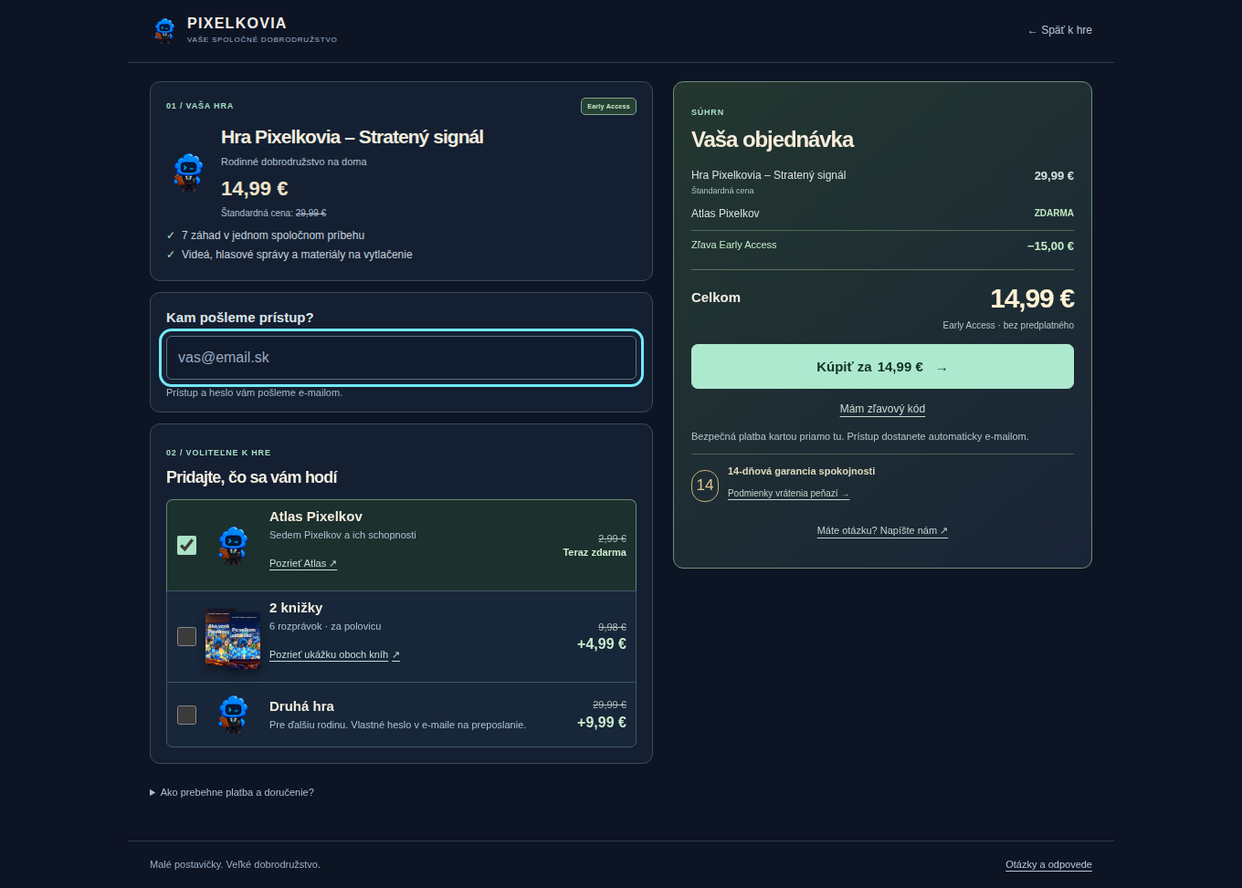
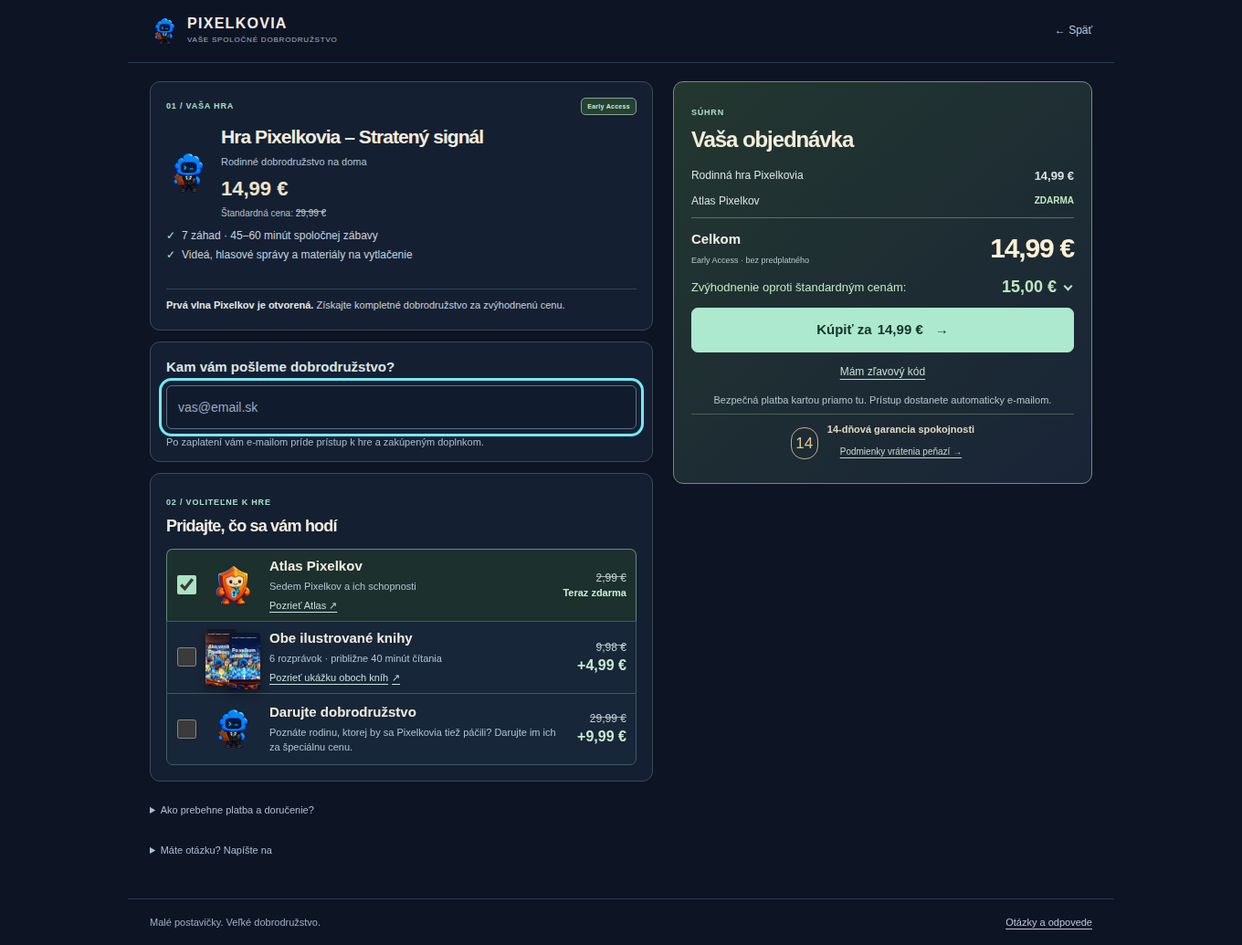
Compact checkout with Slovak card fields and device wallets

diff --git a/checkout.css b/checkout.css
@@ -28,7 +28,7 @@
 .checkout-input:-webkit-autofill,.checkout-input:-webkit-autofill:hover,.checkout-input:-webkit-autofill:focus{-webkit-text-fill-color:#e7eef6;caret-color:#e7eef6;-webkit-box-shadow:0 0 0 1000px #101b2d inset;box-shadow:0 0 0 1000px #101b2d inset}
 .details-panel .field-note{font-size:11px;line-height:1.5;margin:6px 0 0;color:#a9bacb}
 .checkout-addons{display:grid;grid-auto-rows:1fr;gap:0}
-.checkout-addon{display:flex;border:1px solid #405869;border-bottom:0;background:#172638;padding:8px 10px;min-width:0}
+.checkout-addon{display:flex;border:1px solid #405869;border-bottom:0;background:#172638;padding:6px 10px;min-width:0}
 .checkout-addon:first-child{border-radius:7px 7px 0 0}
 .checkout-addon:last-child{border-bottom:1px solid #405869;border-radius:0 0 7px 7px}
 .checkout-addon:has(input:checked){background:#1c302d;border-color:#658a76}
@@ -36,10 +36,11 @@
 .addon-check{display:grid;place-items:center;width:44px;height:44px;margin-left:-11px;cursor:pointer}
 .addon-main input{width:21px;height:21px;margin:0;accent-color:#ace3c4;cursor:pointer}
 .addon-main>img{width:48px;height:54px;object-fit:contain;justify-self:center}
-.addon-copy{min-width:0;align-self:start}
+.addon-copy{display:flex;flex-direction:column;align-items:flex-start;min-width:0;align-self:center}
 .addon-copy>label{display:block;cursor:pointer;font:650 15px/1.35 Manrope,sans-serif;color:#f2ebdc}
-.addon-copy>small{display:block;font-size:11px;line-height:1.45;color:#adc2d2;margin-top:3px}
-.addon-copy .book-preview-button,.addon-copy .book-sample-link{display:inline-flex;align-items:center;min-height:44px;padding:5px 0;margin:0;border:0;background:transparent;color:#c8dfdd;font:11px/1.4 'DM Sans',sans-serif;text-decoration:underline;text-underline-offset:3px;gap:4px}
+.addon-copy>small{display:block;font-size:11px;line-height:1.45;color:#adc2d2;margin-top:5px}
+.addon-copy .book-preview-button,.addon-copy .book-sample-link{position:relative;display:inline-flex;align-items:flex-start;min-height:0;padding:5px 0 0;margin:0;border:0;background:transparent;color:#c8dfdd;font:11px/1.4 'DM Sans',sans-serif;text-decoration:underline;text-underline-offset:3px;gap:4px}
+.addon-copy .book-preview-button::after,.addon-copy .book-sample-link::after{content:'';position:absolute;inset:-10px 0;min-height:44px}
 .addon-price{text-align:right;max-width:74px}
 .addon-price>strong{display:block;color:#c9ebce;font-size:16px;line-height:1.35;white-space:nowrap}
 .atlas-addon .addon-price>strong{font-size:11px;white-space:normal}
@@ -84,11 +85,11 @@
 .summary-total>span{font-size:15px;font-weight:600}
 .summary-total>strong{font:650 30px/1.3 Manrope,sans-serif;letter-spacing:-.04em;color:#fff1d3;white-space:nowrap}
 .summary-price-note{display:block;color:#b6c6c5;font-size:9px;font-weight:400;margin:3px 0 0}
-.checkout-buy{width:100%;background:#ace9cf;color:#123228;border:1px solid #b3e9ce;border-radius:7px;min-height:49px;padding:11px 13px;display:flex;gap:6px;justify-content:center;align-items:center;font-weight:750;font-size:15px}
-.checkout-buy:disabled,.mobile-checkout-bar button:disabled{opacity:.58;cursor:not-allowed}
+.checkout-buy,.stripe-pay{width:100%;background:#ace9cf;color:#123228;border:1px solid #b3e9ce;border-radius:7px;min-height:49px;padding:11px 13px;display:flex;gap:6px;justify-content:center;align-items:center;font-weight:750;font-size:15px}
+.checkout-buy:disabled,.stripe-pay:disabled,.mobile-checkout-bar button:disabled{opacity:.58;cursor:not-allowed}
 .checkout-buy>span:last-child{margin-left:7px}
 .checkout-voucher-link,.voucher-remove{display:block;min-height:44px;margin:0 auto;padding:10px 12px;border:0;background:transparent;color:#c4ded3;font-size:12px;text-decoration:underline;text-underline-offset:4px}
-.payment-note{font-size:11px;line-height:1.5;color:#b4c5c9;margin:0 0 6px}
+.payment-note{font-size:11px;line-height:1.5;color:#b4c5c9;margin:0 0 6px;text-align:center}
 .checkout-guarantee{display:flex;align-items:center;justify-content:center;gap:10px;padding-top:8px;border-top:1px solid #496153;text-align:center}
 .checkout-guarantee>span{border:1px solid #c4af7f;border-radius:14px;color:#dec68f;flex:0 0 30px;width:30px;height:35px;display:grid;place-items:center;font-size:17px}
 .checkout-guarantee>p{font-size:10px;line-height:1.5;color:#b7c8c2;margin:0}
@@ -102,16 +103,22 @@
 .checkout-footer>a{color:#b6c7d9;text-underline-offset:3px}
 .visually-hidden{position:absolute;width:1px;height:1px;padding:0;overflow:hidden;clip-path:inset(50%);white-space:nowrap}
 .mobile-checkout-bar{display:none}
-.embedded-payment{max-width:640px;margin:0 auto 18px}
-.embedded-payment h2{font-size:22px;margin:0 0 14px}
-.payment-order-summary{padding-bottom:14px;margin-bottom:18px;border-bottom:1px solid var(--checkout-line)}
-.payment-order-summary>p{font-size:13px;line-height:1.6;color:#b2c2d3;margin:0 0 8px;overflow-wrap:anywhere}
-.payment-order-summary>div{display:flex;justify-content:space-between;gap:14px;align-items:center;color:#dce4e7;font-size:14px}
+.embedded-payment{max-width:520px;margin:0 auto 12px;padding:16px}
+.embedded-payment h2{font-size:20px;margin:0 0 12px}
+.payment-order-summary{padding-bottom:8px;margin-bottom:12px;border-bottom:1px solid var(--checkout-line)}
+.payment-order-summary summary{display:flex;align-items:center;justify-content:space-between;gap:12px;min-height:40px;cursor:pointer;list-style:none;color:#b2c2d3;font-size:12px}
+.payment-order-summary summary::-webkit-details-marker{display:none}
+.payment-order-summary summary>span::after{content:'⌄';margin-left:6px}
+.payment-order-summary details[open] summary>span::after{content:'⌃'}
+.payment-order-summary p{font-size:12px;line-height:1.5;color:#b2c2d3;margin:8px 0 0;overflow-wrap:anywhere}
 .payment-order-summary strong{font:700 24px/1.3 Manrope,sans-serif;color:#fff1d3;white-space:nowrap}
+#express-checkout-slot{min-height:0;margin-bottom:8px}
+.wallet-separator{text-align:center;font-size:11px;color:#b2c2d3;margin:6px 0 10px}
+.stripe-pay{margin-top:14px}
 #payment-slot{max-width:560px;margin:0 auto;overflow:hidden;border-radius:8px;background:#142032}
 .embedded-payment>#payment-status{max-width:560px;margin:16px auto 0;color:#b2c2d3;font-size:14px;line-height:1.65}
 .embedded-payment>#payment-status:empty{display:none}
-.embedded-payment>#change-order{display:flex;margin:20px auto 0}
+.embedded-payment>#change-order{display:flex;min-height:44px;margin:8px auto 0;padding:7px 14px;font-size:12px}
 .field-note{font-size:12px;line-height:1.6;margin:10px 0 0;color:#a9bacb}
 .standalone-book{display:grid;grid-template-columns:72px 1fr;gap:18px;align-items:center;margin:14px 0}
 .standalone-book h2{margin:0 0 8px}
@@ -135,8 +142,8 @@
 .voucher-error{font-size:13px;line-height:1.7;color:#ffd1bc;margin:12px 0 0}
 .voucher-dialog [aria-invalid="true"]{border-color:#ffb89b}
 @media(max-width:900px){.checkout-layout{gap:16px}.checkout-panel,.summary-inner{padding:14px}.addon-main{grid-template-columns:22px 52px minmax(0,1fr) auto;gap:8px}.addon-copy>label{font-size:14px}.book-pair{gap:2px}.checkout-addons .offer-book-cover{width:25px;height:36px;flex-basis:25px}.book-bundle-option .book-pair .offer-book-cover{width:30px;height:60px;flex-basis:30px}}
-@media(max-width:700px){.checkout-header{padding:8px 14px;gap:10px}.checkout-brand{font-size:14px;gap:7px}.checkout-brand small{font-size:6px}.checkout-header>a:last-child{font-size:11px}.checkout-main{padding:12px 12px 20px}.checkout-layout{display:flex;flex-direction:column;gap:0}.checkout-content,.checkout-summary{width:100%;min-width:0}.checkout-panel{padding:13px;margin-bottom:10px}.base-product-heading h2{font-size:20px}.base-product-heading{margin:7px 0}.base-product li{font-size:11px}.base-product-heading p{display:none}.details-panel{padding-block:10px}.details-panel>.checkout-step{display:none}.details-panel .field-label{font-size:14px;margin:0 0 6px}.checkout-summary{position:static;margin-bottom:8px}.summary-inner{padding:16px}.summary-inner>h2{font-size:22px;margin-bottom:12px}.checkout-footer{padding:14px 12px 100px;font-size:10px;line-height:1.5}.addons-panel>h2{font-size:16px;margin:3px 0 10px}.addon-price>strong{font-size:15px}.addon-main{grid-template-columns:21px 56px minmax(0,1fr) auto;gap:8px}.checkout-addon{padding:7px 8px}.addon-copy>small{font-size:10px}.addon-copy .book-preview-button,.addon-copy .book-sample-link{font-size:10px}.addon-price{max-width:62px}.book-pair{gap:3px}.checkout-addons .offer-book-cover{width:26px;height:38px;flex-basis:26px}.mobile-checkout-bar{position:fixed;bottom:0;left:0;right:0;z-index:20;display:flex;align-items:center;justify-content:space-between;gap:16px;padding:10px 14px calc(10px + env(safe-area-inset-bottom));background:#142332f5;border-top:1px solid #5f8270;box-shadow:0 -8px 24px #050b1633;backdrop-filter:blur(12px)}.mobile-checkout-bar small{display:block;font-size:10px;color:#b9cbcc}.mobile-checkout-bar strong{display:block;font:700 22px/1.3 Manrope,sans-serif;color:#fff1d3;white-space:nowrap}.mobile-checkout-bar button{display:flex;align-items:center;justify-content:center;gap:14px;min-height:48px;padding:10px 16px;border:1px solid #b3e9ce;border-radius:7px;background:#ace9cf;color:#123228;font-size:13px;font-weight:750}.voucher-dialog{padding:22px 20px}.voucher-heading h2{font-size:24px}}
-@media(max-width:360px){.checkout-main{padding-inline:10px}.checkout-panel{padding:12px}.base-product-heading h2{font-size:19px}.base-product-heading>img{width:42px;height:42px;flex-basis:42px}.base-product-heading{gap:9px}.planned-price{font-size:9px}.addon-main{grid-template-columns:21px 48px minmax(0,1fr) auto;gap:6px}.checkout-addon{padding:7px}.addon-copy>label{font-size:13px}.addon-price>strong{font-size:14px}.addon-main>img{width:40px}.book-pair{gap:2px}.checkout-addons .offer-book-cover{width:23px;height:33px;flex-basis:23px}.addon-price{max-width:58px}.mobile-checkout-bar{padding-inline:12px;gap:10px}.mobile-checkout-bar button{padding-inline:12px;gap:8px;font-size:12px}}
+@media(max-width:700px){.checkout-header{padding:8px 14px;gap:10px}.checkout-brand{font-size:14px;gap:7px}.checkout-brand small{font-size:6px}.checkout-header>a:last-child{font-size:11px}.checkout-main{padding:12px 12px 20px}.checkout-layout{display:flex;flex-direction:column;gap:0}.checkout-content,.checkout-summary{width:100%;min-width:0}.checkout-panel{padding:13px;margin-bottom:10px}.base-product-heading h2{font-size:20px}.base-product-heading{margin:7px 0}.base-product li{font-size:11px}.base-product-heading p{display:none}.details-panel{padding-block:10px}.details-panel>.checkout-step{display:none}.details-panel .field-label{font-size:14px;margin:0 0 6px}.checkout-summary{position:static;margin-bottom:8px}.summary-inner{padding:16px}.summary-inner>h2{font-size:22px;margin-bottom:12px}.checkout-footer{padding:14px 12px 100px;font-size:10px;line-height:1.5}.addons-panel>h2{font-size:16px;margin:3px 0 10px}.addon-price>strong{font-size:15px}.addon-main{grid-template-columns:21px 56px minmax(0,1fr) auto;gap:8px}.checkout-addon{padding:6px 8px}.addon-copy>small{font-size:10px}.addon-copy .book-preview-button,.addon-copy .book-sample-link{font-size:10px}.addon-price{max-width:62px}.book-pair{gap:3px}.checkout-addons .offer-book-cover{width:26px;height:38px;flex-basis:26px}.mobile-checkout-bar{position:fixed;bottom:0;left:0;right:0;z-index:20;display:flex;align-items:center;justify-content:space-between;gap:16px;padding:10px 14px calc(10px + env(safe-area-inset-bottom));background:#142332f5;border-top:1px solid #5f8270;box-shadow:0 -8px 24px #050b1633;backdrop-filter:blur(12px)}.mobile-checkout-bar small{display:block;font-size:10px;color:#b9cbcc}.mobile-checkout-bar strong{display:block;font:700 22px/1.3 Manrope,sans-serif;color:#fff1d3;white-space:nowrap}.mobile-checkout-bar button{display:flex;align-items:center;justify-content:center;gap:14px;min-height:48px;padding:10px 16px;border:1px solid #b3e9ce;border-radius:7px;background:#ace9cf;color:#123228;font-size:13px;font-weight:750}.voucher-dialog{padding:22px 20px}.voucher-heading h2{font-size:24px}}
+@media(max-width:360px){.checkout-main{padding-inline:10px}.checkout-panel{padding:12px}.base-product-heading h2{font-size:19px}.base-product-heading>img{width:42px;height:42px;flex-basis:42px}.base-product-heading{gap:9px}.planned-price{font-size:9px}.addon-main{grid-template-columns:21px 48px minmax(0,1fr) auto;gap:6px}.checkout-addon{padding:6px 7px}.addon-copy>label{font-size:13px}.addon-price>strong{font-size:14px}.addon-main>img{width:40px}.book-pair{gap:2px}.checkout-addons .offer-book-cover{width:23px;height:33px;flex-basis:23px}.addon-price{max-width:58px}.mobile-checkout-bar{padding-inline:12px;gap:10px}.mobile-checkout-bar button{padding-inline:12px;gap:8px;font-size:12px}}
 
 @media(min-width:361px) and (max-width:700px){.book-bundle-option .book-pair .offer-book-cover{width:32px;height:62px;flex-basis:32px}}
 @media(max-width:360px){.book-bundle-option .book-pair .offer-book-cover{width:28px;height:58px;flex-basis:28px}}

diff --git a/checkout.js b/checkout.js
@@ -120,46 +120,75 @@
     document.querySelector('#change-order').disabled=false;
   }
   async function mountPayment(session){
-    const checkout=Stripe(configuration.publishableKey).initCheckoutFormSdk({
+    const checkout=Stripe(configuration.publishableKey,{locale:'sk'}).initCheckoutElementsSdk({
       clientSecret:session.clientSecret,
-      appearance:{
-        theme:'night',inputs:'spaced',labels:'above',
-        variables:{colorPrimary:'#ace9cf',colorBackground:'#101b2d',colorText:'#f1ede5',colorTextSecondary:'#b2c2d3',colorTextPlaceholder:'#9aaac0',colorDanger:'#ffb89b',accessibleColorOnColorPrimary:'#123228',fontFamily:'Inter, system-ui, sans-serif',fontSizeBase:'16px',borderRadius:'7px',spacingUnit:'4px'}
-      }
+      adaptivePricing:{allowed:false},
+      defaultValues:{billingAddress:{address:{country:'SK'}}},
+      elementsOptions:{appearance:{
+        theme:'night',inputs:'condensed',labels:'above',
+        variables:{colorPrimary:'#ace9cf',colorBackground:'#101b2d',colorText:'#f1ede5',colorTextSecondary:'#b2c2d3',colorTextPlaceholder:'#9aaac0',colorDanger:'#ffb89b',accessibleColorOnColorPrimary:'#123228',fontFamily:'Inter, system-ui, sans-serif',fontSizeBase:'16px',borderRadius:'7px',spacingUnit:'3px'}
+      }}
     });
     const loaded=await checkout.loadActions();
     if(loaded.type!=='success')throw Error('Platobný formulár sa nepodarilo načítať. Skúste to znova.');
-    const paymentForm=checkout.createForm({layout:'expanded',expressCheckout:{paymentMethods:{link:'never'}}});
-    const change=document.querySelector('#change-order'),status=document.querySelector('#payment-status');
-    let alive=true,confirming=false;
-    paymentForm.on('confirm',async event=>{
+    const change=document.querySelector('#change-order'),status=document.querySelector('#payment-status'),pay=document.querySelector('#stripe-pay');
+    const walletSlot=document.querySelector('#express-checkout-slot'),separator=document.querySelector('#wallet-separator');
+    let alive=true,confirming=false,cardReady=session.totalCents===0,priceValid=true,payment,wallet;
+    const syncPayButton=()=>{pay.disabled=confirming||!cardReady||!priceValid;};
+    function displayTotal(current){
+      const amount=current.total.total.minorUnitsAmount;
+      if(current.currency!=='eur'||current.minorUnitsAmountDivisor!==100||amount!==session.totalCents)throw Error('Cena platby sa zmenila. Vráťte sa k objednávke a skúste to znova.');
+      document.querySelector('#payment-order-total').textContent=money(amount);
+      pay.textContent=amount===0?'Potvrdiť objednávku zdarma':'Zaplatiť '+money(amount);
+    }
+    displayTotal(loaded.actions.getSession());
+    checkout.on('change',current=>{
+      if(!alive)return;
+      try{displayTotal(current);priceValid=true;syncPayButton();}catch(error){priceValid=false;syncPayButton();status.textContent=error.message;}
+    });
+    async function confirm(event){
       if(!alive||confirming)return;
-      confirming=true;change.disabled=true;status.textContent=session.totalCents===0?'Potvrdzujem objednávku…':'Spracúvam platbu…';
+      confirming=true;pay.disabled=true;change.disabled=true;status.textContent=session.totalCents===0?'Potvrdzujem objednávku…':'Spracúvam platbu…';
       try{
-        const result=await loaded.actions.confirm({formConfirmEvent:event,redirect:'if_required'});
+        displayTotal(loaded.actions.getSession());
+        const result=await loaded.actions.confirm({redirect:'if_required',...(event?{expressCheckoutConfirmEvent:event}:{})});
         if(!alive)return;
         if(result.type==='success'){
           embedded?.destroy();embedded=null;
           await paymentStatus(session.sessionId);
         }else{
           status.textContent=result.error?.message||'Platbu sa nepodarilo dokončiť. Skúste to znova.';
+          event?.paymentFailed?.({reason:'fail',message:status.textContent});
         }
       }catch{
-        if(alive)status.textContent='Platbu sa nepodarilo dokončiť. Skúste to znova.';
+        if(alive){status.textContent='Platbu sa nepodarilo dokončiť. Skúste to znova.';event?.paymentFailed?.({reason:'fail',message:status.textContent});}
       }finally{
         confirming=false;
-        if(alive)change.disabled=false;
+        if(alive){syncPayButton();change.disabled=false;}
       }
-    });
+    }
+    const submit=()=>confirm();
+    const destroy=()=>{alive=false;pay.removeEventListener('click',submit);payment?.destroy();wallet?.destroy();pay.hidden=true;pay.disabled=true;walletSlot.hidden=true;separator.hidden=true;};
     document.querySelector('#payment-heading').textContent=session.totalCents===0?'Potvrdenie objednávky zdarma':'Bezpečná platba';
-    form.hidden=true;panel.hidden=false;
-    paymentForm.mount('#payment-slot');
-    return {destroy(){alive=false;paymentForm.destroy();}};
+    form.hidden=true;panel.hidden=false;walletSlot.hidden=false;separator.hidden=true;pay.hidden=false;pay.disabled=true;
+    try{
+      if(session.totalCents>0){
+        payment=checkout.createPaymentElement({layout:'tabs',fields:{billingDetails:{email:'never',phone:'never'}},wallets:{applePay:'never',googlePay:'never',link:'never'}});
+        payment.on('ready',()=>{if(alive){cardReady=true;syncPayButton();}});
+        payment.on('loaderror',()=>{if(alive){cardReady=false;syncPayButton();status.textContent='Údaje karty sa nepodarilo načítať. Upravte objednávku a skúste to znova.';}});
+        wallet=checkout.createExpressCheckoutElement({buttonHeight:44,layout:{maxColumns:2,maxRows:1},paymentMethods:{applePay:'always',googlePay:'always',link:'never',paypal:'never',amazonPay:'never',klarna:'never'}});
+        wallet.on('ready',event=>{if(!alive)return;const available=Boolean(event.availablePaymentMethods?.applePay||event.availablePaymentMethods?.googlePay);walletSlot.hidden=!available;separator.hidden=!available;});
+        wallet.on('confirm',confirm);
+        payment.mount('#payment-slot');wallet.mount('#express-checkout-slot');
+      }else{walletSlot.hidden=true;pay.disabled=false;}
+      pay.addEventListener('click',submit);
+      return {destroy};
+    }catch(error){destroy();throw error;}
   }
   buy.addEventListener('click',async()=>{
     if(!configuration?.enabled||creating||!form.reportValidity())return;
     creating=true;lockOrder(true);update();document.querySelector('#payment-note').textContent='Pripravujem zabezpečený formulár…';
-    try{const response=await fetch('/api/checkout/session',{method:'POST',headers:{'Content-Type':'application/json'},body:JSON.stringify({baseId,books:[...selected],atlasIncluded:atlasSelected,voucherCode,giftGame:giftSelected,email:form.elements.email.value.trim()})});const session=await response.json();if(!response.ok)throw Error(session.error||'Platbu sa nepodarilo pripraviť.');await loadStripe();rememberSummary(session);document.querySelector('#payment-status').textContent='';embedded=await mountPayment(session);panel.scrollIntoView({behavior:'smooth',block:'start'});document.querySelector('#payment-note').textContent='Objednávku dokončite v zabezpečenom formulári nižšie.';}
+    try{const response=await fetch('/api/checkout/session',{method:'POST',headers:{'Content-Type':'application/json'},body:JSON.stringify({baseId,books:[...selected],atlasIncluded:atlasSelected,voucherCode,giftGame:giftSelected,uiMode:'elements',email:form.elements.email.value.trim()})});const session=await response.json();if(!response.ok)throw Error(session.error||'Platbu sa nepodarilo pripraviť.');await loadStripe();rememberSummary(session);document.querySelector('#payment-status').textContent='';embedded=await mountPayment(session);panel.scrollIntoView({behavior:'smooth',block:'start'});document.querySelector('#payment-note').textContent='Objednávku dokončite v zabezpečenom formulári nižšie.';}
     catch(error){embedded?.destroy();embedded=null;panel.hidden=true;form.hidden=false;lockOrder(false);document.querySelector('#payment-slot').replaceChildren();document.querySelector('#payment-note').textContent=error.message;creating=false;update();}
   });
   function clearVoucherError(){voucherError.hidden=true;voucherError.textContent='';voucherInput.removeAttribute('aria-invalid');}

diff --git a/checkout.html b/checkout.html
@@ -19,7 +19,7 @@
   <link rel="apple-touch-icon" sizes="180x180" href="assets/brand/piko-180.png">
 </head>
 <body class="checkout-page">
-  <header class="checkout-header"><a href="index.html" class="checkout-brand"><img src="assets/sales/characters/piko.webp" width="42" height="42" alt=""><span>PIXELKOVIA<small>VAŠE SPOLOČNÉ DOBRODRUŽSTVO</small></span></a><a href="https://pixelkovia.rodulab.com/index.html#balik">Späť</a></header>
+  <header class="checkout-header"><a href="index.html" class="checkout-brand"><img src="assets/sales/characters/piko.webp" width="42" height="42" alt=""><span>PIXELKOVIA<small>VAŠE SPOLOČNÉ DOBRODRUŽSTVO</small></span></a><a href="https://pixelkovia.rodulab.com/index.html#balik">← Späť</a></header>
   <main class="checkout-main">
     <h1 class="visually-hidden">Vaša objednávka Pixelkovia</h1>
     <noscript><p>Na výber doplnkov a pokračovanie z checkoutu zapnite JavaScript.</p></noscript>
@@ -64,7 +64,7 @@
         <div class="checkout-guarantee"><span aria-hidden="true">14</span><p><strong>14-dňová garancia spokojnosti</strong><a href="index.html#garancia">Podmienky vrátenia peňazí →</a></p></div>
       </div></aside>
     </form>
-    <section id="payment-panel" class="checkout-panel embedded-payment" hidden aria-labelledby="payment-heading"><div id="payment-summary" class="payment-order-summary" hidden><p id="payment-order-items"></p><div><span>Celkom</span><strong id="payment-order-total"></strong></div></div><h2 id="payment-heading">Bezpečná platba</h2><div id="payment-slot"></div><p id="payment-status" role="status"></p><button id="change-order" class="btn secondary" type="button">Upraviť objednávku</button></section>
+    <section id="payment-panel" class="checkout-panel embedded-payment" hidden aria-labelledby="payment-heading"><div id="payment-summary" class="payment-order-summary" hidden><details><summary><span>Vaša objednávka</span><strong id="payment-order-total"></strong></summary><p id="payment-order-items"></p></details></div><h2 id="payment-heading">Bezpečná platba</h2><div id="express-checkout-slot"></div><p id="wallet-separator" class="wallet-separator" hidden>alebo zaplaťte kartou</p><div id="payment-slot"></div><button id="stripe-pay" class="stripe-pay" type="button" hidden disabled>Zaplatiť</button><p id="payment-status" role="status"></p><button id="change-order" class="btn secondary" type="button">Upraviť objednávku</button></section>
     <details class="checkout-privacy"><summary>Ako prebehne platba a doručenie?</summary><p>E-mail je povinný na doručenie prístupu. Kartu vyplníte v zabezpečenom formulári <a href="https://stripe.com/" target="_blank" rel="noopener noreferrer">Stripe</a> priamo na tejto stránke; údaje karty spracúva <a href="https://stripe.com/" target="_blank" rel="noopener noreferrer">Stripe</a>. Vaša banka môže vyžiadať potvrdenie platby. Po potvrdenej úhrade vám automaticky pošleme e-mail s odkazom na rodičovský portál a samostatným heslom pre tento nákup.</p></details>
     <details class="checkout-privacy checkout-help"><summary>Máte otázku? Napíšte na</summary><p>Radi vám pomôžeme. Napíšte na <a href="mailto:miky@pixelkovia.rodulab.com">miky@pixelkovia.rodulab.com</a>.</p></details>
   </main>

diff --git a/library-catalog.js b/library-catalog.js
@@ -2,6 +2,6 @@
 (() => {
   window.PIXELKOVIA_LIBRARY=[
     {id:'story-book-before',key:'before',teaser:'Spoznajte, ako sa za obrazovkami rozžiarilo prvé svetielko a našla sa celá partia. Tri rozprávky na spoločné čítanie pred hrou alebo samostatne.',title:'Ako vznikli Pixelkovia',subtitle:'Kniha prvá · Rozprávky pred dobrodružstvom',description:'Odkiaľ sa vzali malí obyvatelia sveta za obrazovkou? V troch ilustrovaných rozprávkach spoznáte prvé svetielko, Pika a jeho kamarátov aj tajomstvo bezpečnej brány. Prečítajte si ich pred spoločným dobrodružstvom – alebo len tak, keď máte chuť na príbeh.',when:'Pred hraním alebo samostatne',cover:'assets/books/before-cover.webp',readingTime:'Približne 20–25 minút spoločného čítania',previews:['assets/sales/books/before-page-1.webp','assets/sales/books/before-page-2.webp']},
-    {id:'story-book-after',key:'after',teaser:'Dobrodružstvo sa skončilo, ale príbehy pokračujú. Tri nové rozprávky o stratenej mape, záhadných pípnutiach a svetielkach, ktoré potrebujú oddych.',title:'Po veľkom záblesku',subtitle:'Kniha druhá · Rozprávky po dobrodružstve',description:'Veľký záblesk sa skončil a všetci Pixelkovia sú zase doma. Lenže život za obrazovkami pokračuje: treba obnoviť stratenú mapu, porozumieť trom záhadným pípnutiam a zistiť, prečo aj svetielka potrebujú odpočinok. Tri nové uzavreté rozprávky o priateľstve a malých veľkých objavoch.',when:'Po hraní alebo samostatne',cover:'assets/books/after-cover.webp',readingTime:'25 minút spoločného čítania',previews:['assets/sales/books/after-page-1.webp','assets/sales/books/after-page-2.webp']}
+    {id:'story-book-after',key:'after',teaser:'Dobrodružstvo sa skončilo, ale príbehy pokračujú. Tri nové rozprávky o stratenej mape, záhadných pípnutiach a svetielkach, ktoré potrebujú oddych.',title:'Po veľkom záblesku',subtitle:'Kniha druhá · Rozprávky po dobrodružstve',description:'Veľký záblesk sa skončil a všetci Pixelkovia sú zase doma. Lenže život za obrazovkami pokračuje: treba obnoviť stratenú mapu, porozumieť trom záhadným pípnutiam a zistiť, prečo aj svetielka potrebujú odpočinok. Tri nové uzavreté rozprávky o priateľstve a malých veľkých objavoch.',when:'Po hraní alebo samostatne',cover:'assets/books/after-cover.webp',readingTime:'20–25 minút spoločného čítania',previews:['assets/sales/books/after-page-1.webp','assets/sales/books/after-page-2.webp']}
   ];
 })();

diff --git a/docs/stripe-checkout-mobile-ux.md b/docs/stripe-checkout-mobile-ux.md
@@ -1,93 +1,38 @@
-# Pixelkovia – zjednodušenie Stripe Embedded Checkout na mobile
+# Pixelkovia – kompaktná platba na mobile
 
-**Stav:** Implementované; overenie a výsledky sú uvedené nižšie.
-**Oblasť:** WEB & BUSINESS / verejný checkout.  
-**Rozsah:** Iba platobná obrazovka a konfigurácia dostupných platobných metód. Bez zmien produktu, cien a herného obsahu.
+Aktuálny stav k 28. 10. 2026. Zdroje sú `checkout.html`, `checkout.css`, `checkout.js` a `admin/src/commerce.mjs`. Ceny, objednávky, doručenie a oprávnenia spracúva existujúci backend; podrobnosti sú v [nastavení platieb](payment-setup.md).
 
-## Cieľ
+## Správanie
 
-Súčasný Stripe Embedded Checkout je na mobiloch zbytočne dlhý: ponúka dominantné prihlásenie cez Link a výber platobných metód MB WAY, Bancontact, Satispay a EPS. Pri primárnom predaji slovenským rodinám chceme kratšiu, jednoznačnú obrazovku s rýchlou platbou kartou.
+- Ponuka má tri rovnako vysoké, kratšie riadky. Názov, krátky opis a prípadná ukážka tvoria zvisle vycentrovaný blok. Atlas zastupuje Guardy. Platobná poznámka a garancia sú zarovnané na stred. Hlavička obsahuje „← Späť“.
+- Kniha **Po veľkom záblesku** používa v spoločnom katalógu údaj **20–25 minút spoločného čítania**.
+- Po povinnom e-maile a výbere doplnkov sa otvorí stručný platobný krok. Zbaliteľná objednávka a suma sú nad kartou; karta neopakuje kontakt ani zoznam produktov.
+- Platba používa verejný Stripe Elements SDK nad Checkout Sessions (`ui_mode: elements`), samostatný Payment Element a Express Checkout Element. Form SDK s veľkým blokom Contact/Link už nový klient nepoužíva.
+- Oficiálny Appearance API používa `inputs: condensed`, slovenčinu a predvolené **Slovensko / SK**. Krajina zostáva zmeniteľná. Údaje karty sú vo vlastnom iframe Stripe; nezasahujeme do jeho DOM.
+- V tejto relácii sú ostatné aktuálne zapnuté miestne metódy a splátky vylúčené cez `excluded_payment_method_types`. Link vypína `wallet_options.link.display: never` a nastavenie prvkov; globálne nastavenia iných aplikácií sa nemenia.
+- Apple Pay a Google Pay majú vlastný priestor nad kartou, ktorý sa skryje, ak ich Stripe na zariadení neponúkne. Nepoužívame súkromný preview režim Form SDK.
+- Vlastné tlačidlo uvádza presnú sumu z SDK; menu a centy porovnáva so serverovou odpoveďou. Dvojité kliknutie ani súbeh karty a peňaženky nepotvrdia objednávku dvakrát. Úspech SDK čaká na overený stav servera.
+- Voucher `free` vynechá údaje karty, ale objednávku potvrdí cez Stripe; `1e` zachová platenú objednávku za presne 1 €. Návrat k úprave obnoví výber aj e-mail. Staršie otvorené záložky majú počas nasadenia kompatibilný režim `form`.
 
-**Cieľový tok:** Prehľad vybranej objednávky a celkovej ceny → stručný nadpis „Bezpečná platba“ → priamo viditeľné polia karty → tlačidlo „Zaplatiť [suma]“.
+## Overenie
 
-## Požiadavky pre Codex
+- Všetkých **33 serverových testov** a zostavenie Workeru prešlo. Overujú aj samostatné účty pri zhodnom e-maile, dve atómové objednávky, podpísané webhooky, refund, šifrované doručenie a preposielanie podpory.
+- Všetkých **38 platobných scenárov** s riadeným SDK prešlo (19 Chromium + 19 WebKit). Pokrývajú šírky **360, 390, 430 a 1360 px**, korektné ceny, návrat, chyby, dvojité potvrdenie, peňaženku, zmenenú sumu a nenačítané polia karty. Spustenie: `PLAYWRIGHT_MODULE=/cesta/k/playwright [QA_BROWSER=webkit] node tests/checkout-payment.test.cjs`.
+- Skutočný Stripe Payment Element bol vizuálne overený v Chromiu na 390 a 1360 px. Predvolená voľba v iframe bola **Slovensko**, karta bola po slovensky a bez Contact/Link bloku. Platobný panel mal **376 px** na mobile a **382 px** na desktope; pôvodný formulár zaberal približne celú mobilnú obrazovku.
+- Táto vizuálna kontrola iba otvorila nezaplatenú reláciu bez údajov karty či potvrdenia. Relácia bola po kontrole ukončená so stavom `expired` / `unpaid`. Bankové overenie ani fyzické peňaženky týmto overené nie sú.
 
-1. V serverovej tvorbe Stripe Checkout Session nastav `payment_method_types: ['card']`. Neponúkaj MB WAY, Bancontact, Satispay a EPS ani ďalšie automaticky vybrané alternatívne platobné metódy. Over, že voľba funguje s aktuálnym podporovaným režimom Stripe; implementácia používa `ui_mode: 'form'`.
-2. **Vypni alebo potlač automatické prihlásenie cez Stripe Link** pre platobný tok Pixelkovia, pokiaľ je to podporované dokumentovanou konfiguráciou Stripe. Pred úpravou over aktuálnu dokumentáciu pre Stripe Embedded Checkout a konkrétny typ integrácie. Neodstraňuj bezpečnostné overovanie bánk (3D Secure/SCA).
-3. **Apple Pay a Google Pay** zachovaj, ak ich karta/Stripe a konkrétne zariadenie bezpečne podporujú, a ak nepridávajú zbytočné kroky. Neprisľubuj ich zobrazenie na všetkých zariadeniach; otestuj správanie na podporovaných prehliadačoch.
-4. V existujúcej checkout stránke skráť veľké medzery a duplicitné nadpisy, obmedz opakované cenové informácie, zmenši zbytočný obal okolo Stripe platobného prvku. Nenúť zákazníka scrollovať cez dlhý zoznam metód pred kartou.
-5. Stripe hostované/iframe polia neupravuj nedokumentovaným CSS, skriptmi ani zásahom do DOM. Použi iba oficiálne nastavenia Stripe. Ak samotnú vnútornú podobu Stripe formulára nemožno viac skrátiť, optimalizuj aspoň naše okolité rozloženie.
-6. Zachovaj existujúce sumy a obchodnú logiku:
-   - hlavná hra 14,99 €;
-   - hra + jedna knižka 19,98 €;
-   - hra + obe knižky 19,98 €;
-   - Atlas Pixelkov zdarma podľa platnej konfigurácie;
-   - samostatné knižky po 4,99 €.
-7. Zachovaj zabezpečenie serverového výpočtu ceny, Stripe webhooky, podpisové overovanie, ochranu proti duplicitným objednávkam a prideľovanie prístupu až po potvrdenej platbe.
-8. Otestuj mobilné šírky **360, 390 a 430 px** aj desktop. Skontroluj otvorenie platobného kroku, jednu kartu bez alternatívnych zahraničných platobných metód, chyby validácie, zobrazenie správnych súm a návrat k úprave objednávky.
-9. Automatické testy nesmú vykonať reálnu platbu ani meniť produkčný Stripe účet bez výslovného schválenia. Najprv použi testovacie/simulované prostredie.
-10. Na konci odovzdaj pred/po screenshoty, výsledky testov, konkrétne zmenené súbory a informáciu, či sa podarilo vypnúť Link **bez obmedzenia** Apple Pay/Google Pay.
+## Apple Pay / Google Pay – aktivácia domény
 
-## Dizajnový princíp
+Pri kontrole nebola v Stripe zaregistrovaná doména `pixelkovia.rodulab.com` pre platobné peňaženky. Pokus o jej registráciu cez pripojený Stripe plugin skončil požiadavkou na obnovenie prihlásenia/oprávnení (`UNAUTHORIZED`, reauthentication required). Existujúci runtime kľúč nemá právo na registráciu domény.
 
-Nechceme vlastný formulár platobnej karty ani integráciu, ktorá obchádza Stripe. Chceme **čo najkompaktnejší oficiálny Stripe Embedded Checkout**: príjemný pre mobil, dôveryhodný, s jasným súčtom, dominantnou kartou a minimum rozhodovania.
+Kód peňaženky podporuje; aktivácia vyžaduje obnovený prístup, registráciu presnej produkčnej domény a následné overenie stavu Apple Pay/Google Pay v Stripe. Nevytvárať ďalší účet ani meniť globálne nastavenia iných aplikácií. Dostupnosť sa napokon overuje na fyzickom podporovanom zariadení s peňaženkou.
 
-## Poznámka pre implementáciu
+## Snímky
 
-Ak Stripe pri `payment_method_types: ['card']` napriek tomu zobrazuje Link alebo iné wallet prvky, nepokúšaj sa ich skrývať neoficiálnym CSS. Najprv skontroluj Dashboard konfiguráciu Link a podporované možnosti pri vytváraní relácie. Ak nemožno naplniť všetky požiadavky súčasne, transparentne popíš kompromis a navrhni najmenšiu zmenu; neaktivuj produkčný predaj len kvôli UX zmene.
-
-## Výsledok – 27. 10. 2026
-
-- Používa sa oficiálny Stripe Form SDK, režim `form`, rozloženie `expanded` a Appearance téma `night`. Aktuálna dokumentácia: [vložený formulár](https://docs.stripe.com/checkout/form/quickstart), [možnosti formulára](https://docs.stripe.com/js/custom_checkout/create_form).
-- Server vyberá iba `card`; formulár potláča Link cez dokumentované `expressCheckout.paymentMethods.link: 'never'`. MB WAY, Bancontact, Satispay ani EPS sa pri overení neobjavili. Globálne platobné nastavenia účtu neboli upravené.
-- Apple Pay/Google Pay nie sú zakázané v konfigurácii formulára. Dostupnosť na fyzickom zariadení s uloženou peňaženkou sa nepodarilo overiť; netvrdíme, že sa zobrazia všade. WebKit sa v tomto testovacom prostredí nepodarilo overiť.
-- Po pokračovaní sa skryje rozsiahly výber produktov a zobrazí sa stručný prehľad, suma a karta. Tlačidlo „Upraviť objednávku“ obnoví pôvodný výber a e-mail. Pri otvorení platby sa údaje uzamknú, aby sa počas vytvárania relácie nezmenili.
-- Cena zostáva v EUR; táto relácia neponúka konverziu meny. Stripe riadi vlastné tlačidlo „Zaplatiť“ a zobrazuje finálnu sumu tesne nad ním. Do textu ani DOM iframe nezasahujeme.
-- Chromium: šírky **360, 390, 430 a 1360 px**, bez vodorovného pretečenia; v každom prípade jeden formulár karty, žiadne tlačidlo Link ani uvedené zahraničné metódy, správna suma 14,99 €. Platobný krok mal pri základnej hre približne **981–987 px** výšky celej stránky.
-- Prešlo **24 serverových testov**, štyri scenáre prehliadača s riadeným SDK a kontroly súborov/cenníka. Serverové scenáre potvrdzujú sumy 14,99 €, 19,98 €, 19,98 €, samostatné knihy 4,99 € a obe knihy 9,98 €. Simulované scenáre pokrývajú chybu, opakovanie, dvojité kliknutie, zlyhanie načítania, serverové potvrdenie a návrat od banky.
-- Skutočný Stripe formulár bol vizuálne overený v nezaplatenej relácii. Neboli zadané údaje karty ani odoslaná skutočná platba. Skúšobné relácie sa po overení ukončia; simulované výsledky nie sú dôkazom reálneho bankového overenia alebo doručenia e-mailu.
-
-### Pred / po
-
-Snímky používajú iba skúšobné údaje, bez údajov platobnej karty:
-
-| Pred zjednodušením | Po zjednodušení |
+| Pôvodný platobný formulár | Kompaktný Payment Element |
 | --- | --- |
-| [Snímka pred – 390 px](screenshots/checkout-before-390.png) | [Snímka po – 390 px](screenshots/checkout-after-390.png) |
+| [Pred – 390 px](screenshots/checkout-before-390.png) | [Aktuálne – 390 px](screenshots/checkout-payment-compact-390.png) |
 
-Zmenené súbory: `checkout.html`, `checkout.css`, `checkout.js`, `admin/src/commerce.mjs`, `admin/tests/customer-access.test.mjs`, `tests/checkout-payment.test.cjs`, dokumentácia nastavenia platieb a toto zadanie so snímkami. Herný obsah a ceny sa nemenili.
+[Desktop – 1360 px](screenshots/checkout-payment-compact-1360.png), [ponuka – mobil](screenshots/checkout-offer-390.png), [ponuka – desktop](screenshots/checkout-offer-1360.png). Snímky neobsahujú údaje platobnej karty.
 
-## Doplňujúce overenie – 28. 10. 2026
-
-- Pôvodné zjednodušenie je pushnuté a bolo úspešne nasadené z commitu `69bad78`. Produkčný `checkout.js` sa pri kontrole zhodoval so zdrojom.
-- Predtým otvorené automatizované overenie vo WebKite sa podarilo dokončiť. `tests/checkout-payment.test.cjs` teraz podporuje `QA_BROWSER=webkit` a trvalo pokrýva šírky **360, 390, 430 a 1360 px**. V každej kontroluje správne sumy, otvorenie kompaktného kroku, absenciu vodorovného pretečenia a zachovanie výberu aj e-mailu po návrate. Mobilné scenáre používajú dotykové ovládanie.
-- Prešlo **16 platobných scenárov**: osem v Chromiu a osem vo WebKite, s riadenou náhradou Stripe SDK a zachytenými požiadavkami bez prístupu k platobnému poskytovateľovi. Zahŕňajú chyby, opakovanie, dvojité kliknutie, serverové potvrdenie a návrat od banky.
-- Prešlo aj všetkých **24 serverových testov**, sedem testov prihlasovacích kľúčov a e-mailových DNS, kontrola statických súborov a digitálnych identít. Celá cesta cez izolované Workers/D1, portál, sedem úloh, druhý telefón, hodnotenie a administráciu prešla v **Chromiu aj WebKite**.
-- Na produkčnej doméne prešlo **17 HTTP kontrol** verejných stránok, povinného prihlásenia, nedostupných odpovedí, platených súborov a vyradených trás. Verejný checkout sa vo WebKite načítal so sumou 14,99 € bez vodorovného pretečenia.
-- Testy neodoslali skutočnú platbu, nevytvorili produkčného zákazníka a nemenili nastavenia Stripe. Skutočný formulár Stripe vo WebKite, bankové overenie, doručenie prístupového e-mailu a Apple Pay/Google Pay na fyzickom zariadení týmto overené nie sú. Pôvodné snímky pred/po zostávajú platné; vzhľad ani produkčná platobná logika sa v tomto doplnení nemenili.
-
-## Aktuálna ponuka a voucher – 28. 10. 2026
-
-- Názov produktu je **Hra Pixelkovia – Stratený signál**. Hlavná karta uvádza „7 záhad v jednom spoločnom príbehu“.
-- Súhrn zobrazuje štandardnú cenu **29,99 €**, zľavu **−15 € za Early Access** a výsledok **14,99 €**. Pri hre je štandardná cena prečiarknutá; ponuka má označenie Early Access. Riadok „Doručenie online“ je odstránený.
-- Obe knihy sa pridávajú jedným spoločným políčkom. Zachované sú obe obálky, stručný obsah a samostatné ukážky. Kompletný balík stojí **19,98 €**, knihy k hre teda stoja **4,99 € namiesto 9,98 €**, s textom „2 knižky · 6 rozprávok · za polovicu“. Atlas zostáva bezplatnou voliteľnou položkou. Samostatné knihy zostávajú za 4,99 €.
-- Pod tlačidlom kúpiť je iba odkaz „Mám zľavový kód“, ktorý otvorí dialóg. `free` vynuluje celú aktuálnu objednávku. Neznámy kód, zatvorenie bez uplatnenia, odstránenie kódu, návrat fokusu a zmeny výberu majú pokrytie v testoch.
-- Server overuje voucher a zapisuje ho do existujúcej D1 cez migráciu `0006_checkout_vouchers.sql`. Prístup vytvorí až po podpísanej udalosti a overení dokončenej nulovej relácie cez Stripe API. Otvorená, nezaplatená či podvrhnutá relácia prístup neudelí; opakovaná udalosť nevytvorí druhú objednávku. Podrobnosti: [platby a doručenie](payment-setup.md).
-- Prešlo **25 serverových testov**, **24 prehliadačových platobných scenárov** (12 Chromium + 12 WebKit), verejná ponuka na siedmich šírkach a celá cesta hrou v oboch prehliadačoch. Platby používajú riadené SDK a izolovanú databázu; automatizácia nevykonala živú úhradu ani nevytvorila produkčnú objednávku.
-
-Aktuálne snímky ponuky, bez údajov karty:
-
-| Mobilná ponuka | Dialóg voucheru | Desktop |
-| --- | --- | --- |
-| [390 px](screenshots/checkout-offer-390.png) | [Voucher](screenshots/checkout-voucher-390.png) | [1360 px](screenshots/checkout-offer-1360.png) |
-
-## Kompaktný checkout a druhá hra – 28. 10. 2026
-
-- Potvrdené poradie je stručná karta hry → iba e-mail → tri kompaktné doplnky → **Vaša objednávka**. Meno sa nezbiera. E-mail má samostatný malý blok bez veľkého nadpisu.
-- Atlas uvádza preškrtnutú plánovanú cenu **2,99 €** a „Teraz zdarma“. Balík kníh má dve vyššie, mierne orezané obálky, cenu +4,99 € a odkaz **Pozrieť ukážku oboch kníh**. Odkaz používa rovnaký dialóg `collection` ako funnel: dve knihy, štyri obrázkové ukážky, bez zmeny výberu či ceny.
-- Tretí voliteľný doplnok je druhá hra za **9,99 €**, s prečiarknutou štandardnou cenou **29,99 €** a samostatnou zľavou **−20 €** v súhrne. Bez kníh sa platí 24,98 €, s knihami 29,97 €. Dve samostatné objednávky majú vlastné účty a heslá; kupujúci dostane dva oddelené e-maily a druhý môže preposlať. Druhá objednávka obsahuje iba základnú hru. [Spracovanie a testy](payment-setup.md).
-- Na mobile je pri prechádzaní ponuky dostupná spodná lišta s aktuálnou sumou a pokračovaním k platbe. Pri viditeľnom hlavnom tlačidle, otvorenej ukážke, voucheri alebo platobnom kroku sa schová. Obe tlačidlá vyžadujú platný e-mail a používajú rovnakú ochranu pred opakovaným kliknutím.
-- Vizuálna kontrola na 390 px: stránka má približne **1 500 px** oproti predchádzajúcim 2 090 px, napriek novej ponuke druhej hry. Kontroly na 360, 390, 430 a 1360 px pokrývajú aj chybové stavy, samostatné knihy, voucher, spoločnú ukážku a mobilné tlačidlo.
-- Prešlo **27 serverových testov**, **26 platobných scenárov** (13 Chromium + 13 WebKit), verejný funnel na siedmich šírkach a cesta cez sedem úloh v oboch prehliadačoch. Doručenie dvoch e-mailov, opakovanie, atómové vytvorenie, podpísané webhooky, refund aj voucher sú overené izolovane bez živej úhrady či produkčného nákupu.
-
-Snímky vyššie sú aktualizované; [prvá mobilná obrazovka so spodnou lištou](screenshots/checkout-mobile-bar-390.png) ukazuje dostupné pokračovanie bez posúvania k súhrnu.
+Dokumentácia Stripe: [Elements SDK](https://docs.stripe.com/js/custom_checkout/init), [Payment Element](https://docs.stripe.com/js/custom_checkout/create_payment_element), [Express Checkout Element](https://docs.stripe.com/js/custom_checkout/create_express_checkout_element), [potvrdenie objednávky](https://docs.stripe.com/js/custom_checkout/confirm).

diff --git a/README.md b/README.md
@@ -27,7 +27,7 @@ Pôvodná owner-private ChatGPT Site obsahuje iba oznam o presune, zostavený do
 
 ## Platby a e-maily
 
-Kartu spracúva vložený Stripe Checkout. E-mail je povinný ešte pred vytvorením platby. Server vypočíta cenu podľa spoločného katalógu; podpis webhooku a skutočná zaplatená relácia rozhodujú o vytvorení objednávky. Každá vytvorená objednávka má vlastný prístup. Dva nákupy s rovnakým e-mailom vytvoria dva oddelené účty s rôznymi heslami.
+Kartu spracúva kompaktný Stripe Payment Element s predvolenou krajinou Slovensko a slovenčinou. Podporované peňaženky Apple Pay/Google Pay majú samostatný Express Checkout Element; dostupnosť závisí aj od Stripe a zariadenia. E-mail je povinný ešte pred vytvorením platby. Server vypočíta cenu podľa spoločného katalógu; podpis webhooku a skutočná zaplatená relácia rozhodujú o vytvorení objednávky. Každá vytvorená objednávka má vlastný prístup. Dva nákupy s rovnakým e-mailom vytvoria dva oddelené účty s rôznymi heslami.
 
 V checkoute je pod tlačidlom kúpiť odkaz na voucher. Schválený kód `free` pokryje celú vybranú objednávku vrátane kníh. Server uloží použitý kód a nulovú sumu; prístup vytvorí až podpísaná udalosť pre dokončenú nulovú reláciu overenú cez Stripe API. Karta sa pri nulovej objednávke nevyžaduje. Samotný kód v prehliadači ani návratová URL prístup neudeľujú.
 
